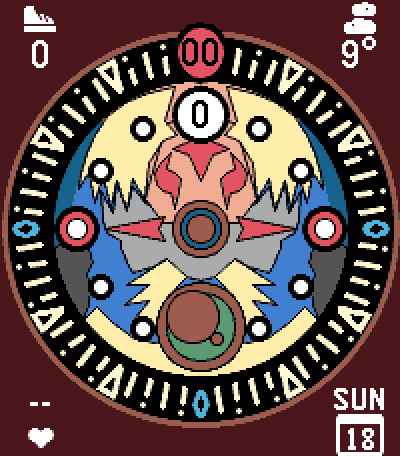
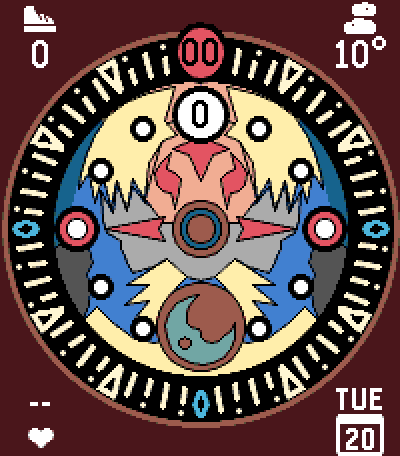
Redraw the moon after the night-time clock
The moon is now a steel-blue crescent traced from a reference of the
clock at night: tips near 12 and 3 o'clock, a cloud-shaped wooden inner
edge with a notch, and a small oval hole. Night screenshots updated.

diff --git a/src/c/main.c b/src/c/main.c
@@ -46,7 +46,7 @@
 #define C_GRAY   GColorLightGray
 #define C_RED    GColorRed
 #define C_WOOD   GColorWindsorTan     // hub + sun/moon disc
-#define C_MOON   GColorJaegerGreen
+#define C_MOON   GColorCadetBlue
 #define C_WHITE  GColorWhite
 
 // ---------------------------------------------------------------------------
@@ -459,20 +459,25 @@ static void draw_label(GContext *ctx, const char *text, GPoint c) {
                      GTextAlignmentCenter, NULL);
 }
 
+// Crescent moon traced from the night-time clock: runs from a tip near 12
+// o'clock down the left and along the bottom to a tip near 3 o'clock, with a
+// cloud-shaped wooden inner edge. Local (t, r) frame, quarter pixels, on the
+// 22 px disc.
+static const int16_t s_crescent[29][2] = {
+  { -2, 63 }, { -25, 58 }, { -46, 46 }, { -63, 27 }, { -70, 2 }, { -68, -21 },
+  { -59, -42 }, { -42, -59 }, { -21, -70 }, { 2, -74 }, { 25, -70 }, { 46, -59 },
+  { 59, -44 }, { 66, -25 }, { 68, -6 }, { 66, 6 },                    // outer edge
+  { 59, -8 }, { 47, -17 }, { 36, -27 }, { 21, -32 }, { 8, -29 }, { 0, -21 },
+  { -1, -12 }, { -3, -2 }, { -19, 0 }, { -27, 9 }, { -29, 23 }, { -25, 38 },
+  { -15, 52 }                                                          // inner edge
+};
+
 static void draw_moon_disc(GContext *ctx, GPoint c, int rot) {
   fill_circle(ctx, c, 22, C_WOOD);
   stroke_circle(ctx, c, 22, C_LINE, 1);
-  // Green crescent: green disc with a wooden bite towards the upper left
-  fill_circle(ctx, c, 17, C_MOON);
-  stroke_circle(ctx, c, 17, C_LINE, 1);
-  GPoint bite = local_pt(c, rot, -16, 20);
-  fill_circle(ctx, bite, 13, C_WOOD);
-  stroke_circle(ctx, bite, 13, C_LINE, 1);
-  // Repaint the disc edge the bite overlapped, then the crater
-  stroke_circle(ctx, c, 22, C_LINE, 1);
-  GPoint crater = local_pt(c, rot, 32, -24);
-  fill_circle(ctx, crater, 3, C_WOOD);
-  stroke_circle(ctx, crater, 3, C_LINE, 1);
+  local_poly(ctx, c, rot, s_crescent, 29, C_MOON, 1);
+  // Small wooden hole in the lower left of the crescent
+  local_oval(ctx, c, rot, -32, -32, 13, 11, C_WOOD, 1);
 }
 
 static void draw_face(GContext *ctx) {
